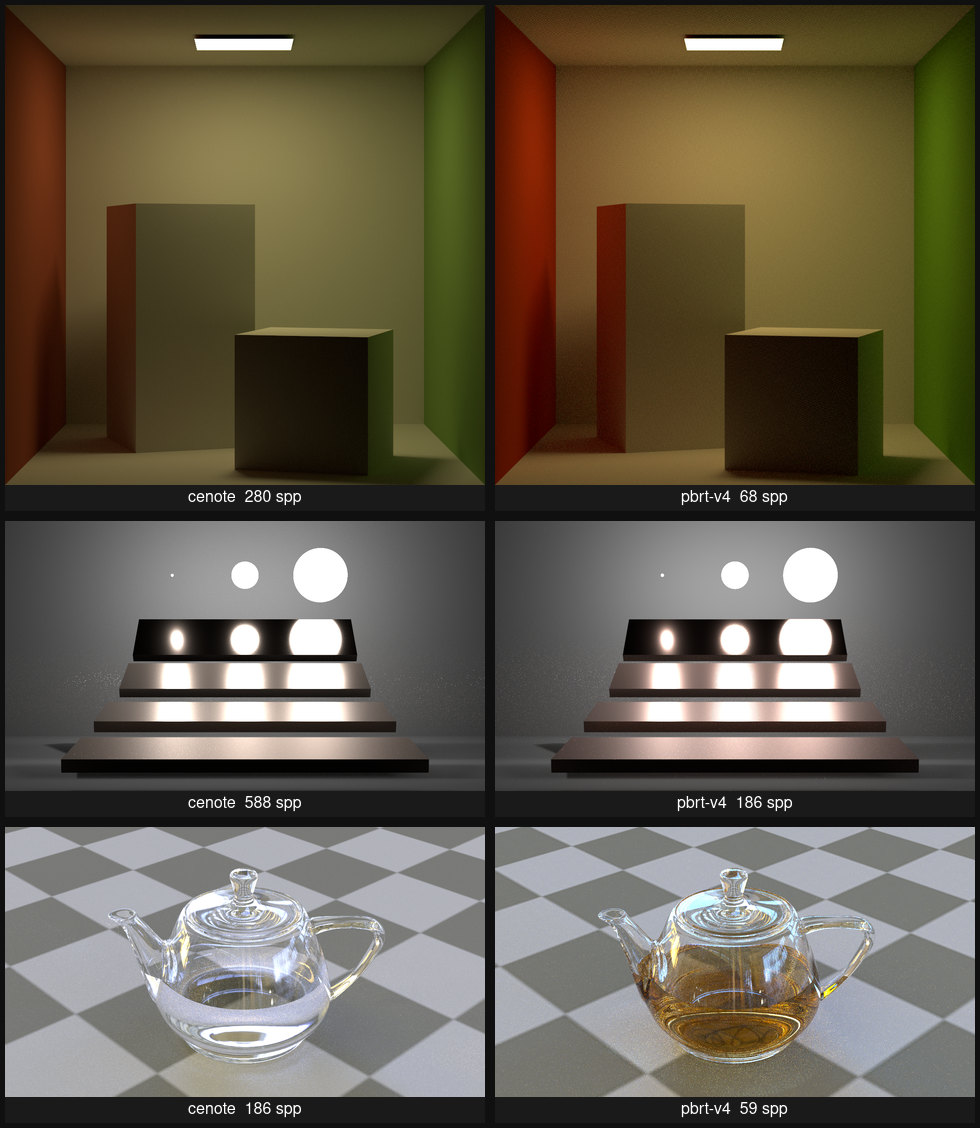
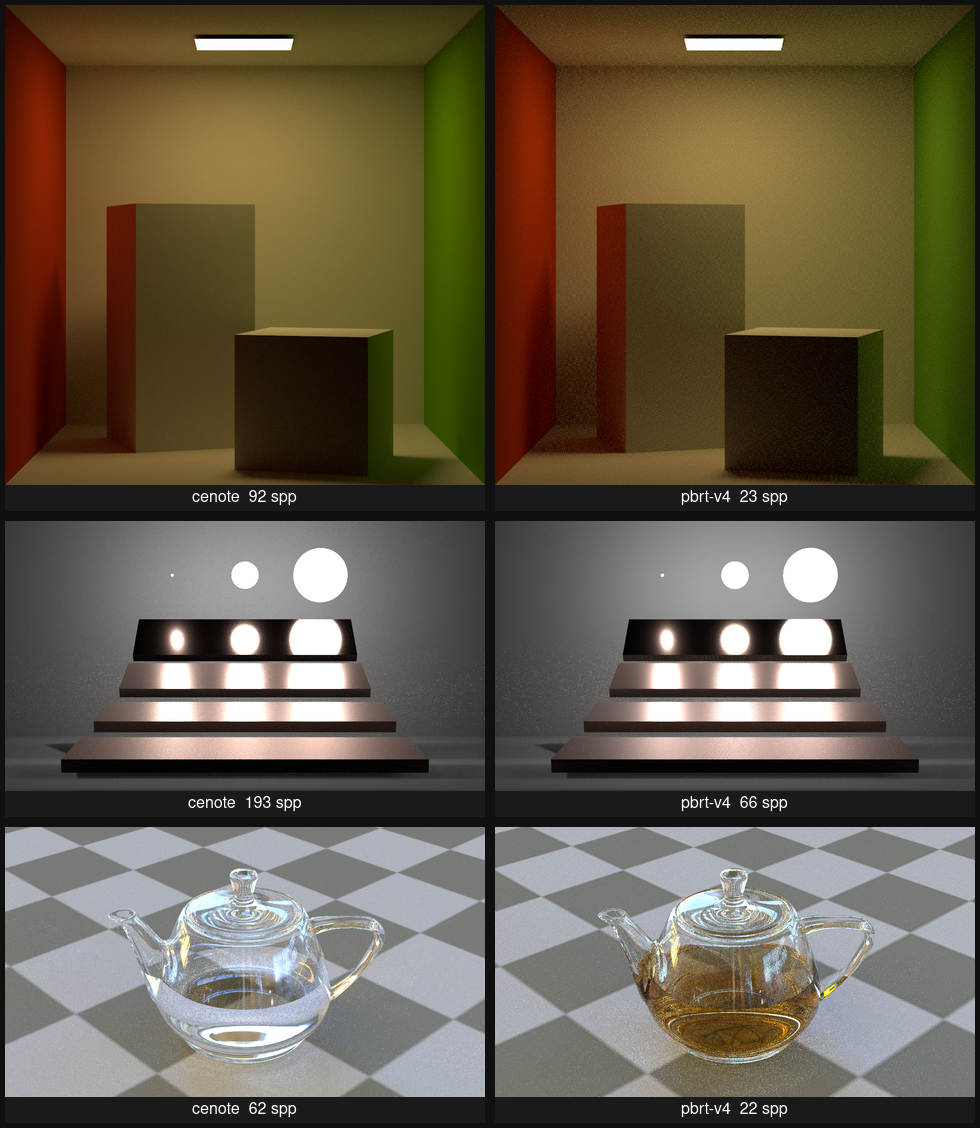
README: fix the demo's washed-out cenote colors, tighten the time budget
Two fixes to the pbrt-v4 comparison figures.

Color: cenote's demo images were displayed through the tonemap tool's
`srgb` mode, which assumes linear Rec709 input (a pbrt EXR) and just
sRGB-encodes. Cenote EXRs are linear ACEScg (AP1), so that path skipped the
AP1->Rec709 conversion and sRGB-encoded wide-gamut values directly —
visibly desaturating the red/green walls and the Veach oranges. In linear
space the two renderers already agreed on chroma to ~2%; the muting was
purely the display. New `neutral` tool mode does AP1->Rec709 then plain
sRGB, matching pbrt's neutral display; the walls now read as saturated as
pbrt's. cenote's renderer and viewer were always correct — this was only
the demo tool.

Time: the equal-time figure now gives each engine ~0.5 s of rendering with
the ~0.5 s of one-time startup (Vulkan/OptiX init, BVH build) excluded, so
the budget is the estimator and not the launch. At two seconds both
converged too cleanly to tell apart; at half a second of rendering pbrt's
grain is plain — 92/193/62 spp for cenote against 23/66/22 for pbrt, the
three-to-four-times throughput showing as noise.

Figures regenerate from a local pbrt build via the untracked pre-commit
hook.

diff --git a/README.md b/README.md
@@ -61,24 +61,26 @@ pbrt — pours as clear glass. pbrt reconstructs with a triangle filter where
 cenote uses a box, so at matched samples its per-pixel noise sits slightly
 lower.*
 
-![The same three scenes, each given about two seconds of wall clock: cenote resolves cleaner where pbrt-v4 still carries visible noise](docs/pbrt-equal-time.png)
+![The same three scenes, each given about half a second of rendering: cenote resolves cleaner where pbrt-v4 still carries visible noise](docs/pbrt-equal-time.png)
 
-*Equal time — about two seconds of wall clock each, both on one RTX 4070 Ti
-SUPER. In that budget cenote draws three to four times the samples — 280,
-588, and 186 spp against pbrt's 68, 186, and 59 — and carries visibly less
-grain. The gap is the estimator's throughput, not the hardware: same GPU,
-same scene, same seconds.*
+*Equal time — about half a second of rendering each, both on one RTX 4070 Ti
+SUPER, with the ~0.5 s of one-time startup (Vulkan or OptiX init and the
+acceleration-structure build) set aside so the budget is the estimator, not
+the launch. In that half second cenote draws three to four times the
+samples — 92, 193, and 62 spp against pbrt's 23, 66, and 22 — and carries
+visibly less grain. The gap is throughput, not hardware: same GPU, same
+scene, same seconds.*
 
 | Scene | Resolution | pbrt-v4 | cenote | per sample |
 |---|---|---|---|---|
-| `cornell-box` | 1024² | 21.6 ms/spp | 4.9 ms/spp | 4.4× |
-| `veach-mis` | 1280×720 | 8.1 ms/spp | 2.6 ms/spp | 3.1× |
-| `teapot-full` | 1280×720 | 23.5 ms/spp | 8.0 ms/spp | 3.0× |
+| `cornell-box` | 1024² | 21.7 ms/spp | 5.5 ms/spp | 3.9× |
+| `veach-mis` | 1280×720 | 7.6 ms/spp | 2.6 ms/spp | 2.9× |
+| `teapot-full` | 1280×720 | 23.0 ms/spp | 8.0 ms/spp | 2.9× |
 
 *Steady-state cost per sample, both engines on one NVIDIA RTX 4070 Ti SUPER
-(pbrt-v4 through its OptiX wavefront back end). Each render also carries
-~0.5–0.8 s of fixed startup — Vulkan or OptiX init and the
-acceleration-structure build — which the two-second budget above includes.*
+(pbrt-v4 through its OptiX wavefront back end). Startup — the ~0.5 s above —
+is measured separately and excluded; this is the per-sample rate the
+equal-time figure divides that half second by.*
 
 pbrt renders spectrally and writes linear `Rec.709`; cenote renders RGB in
 `ACEScg`. The comparison is perceptual — the same scene under the same